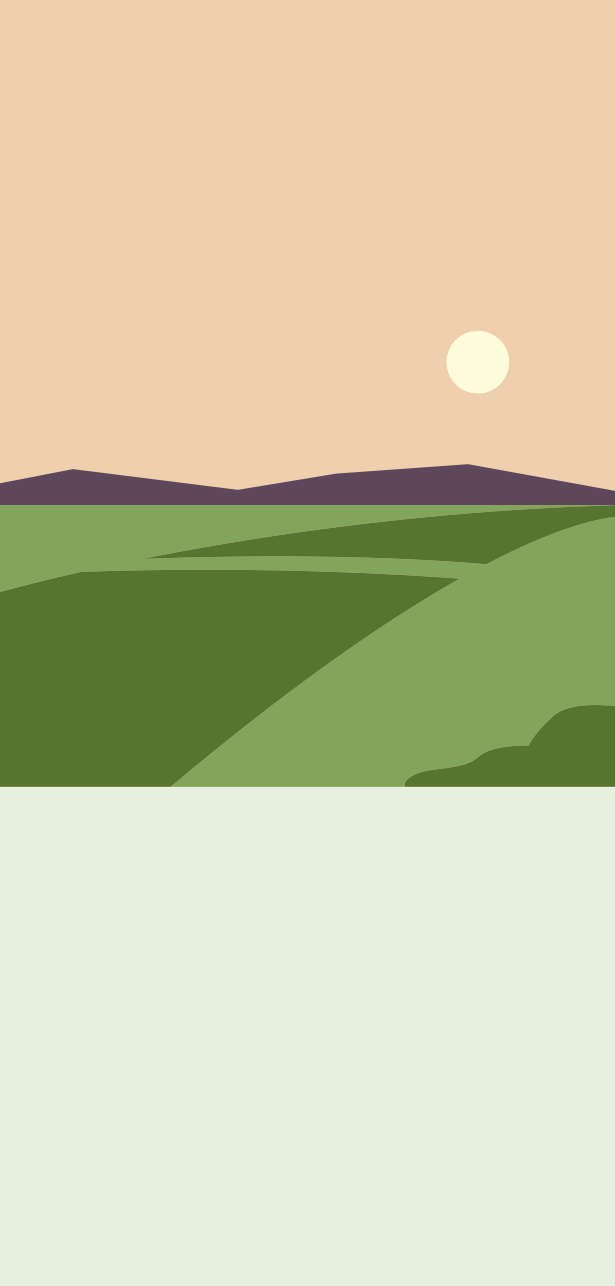
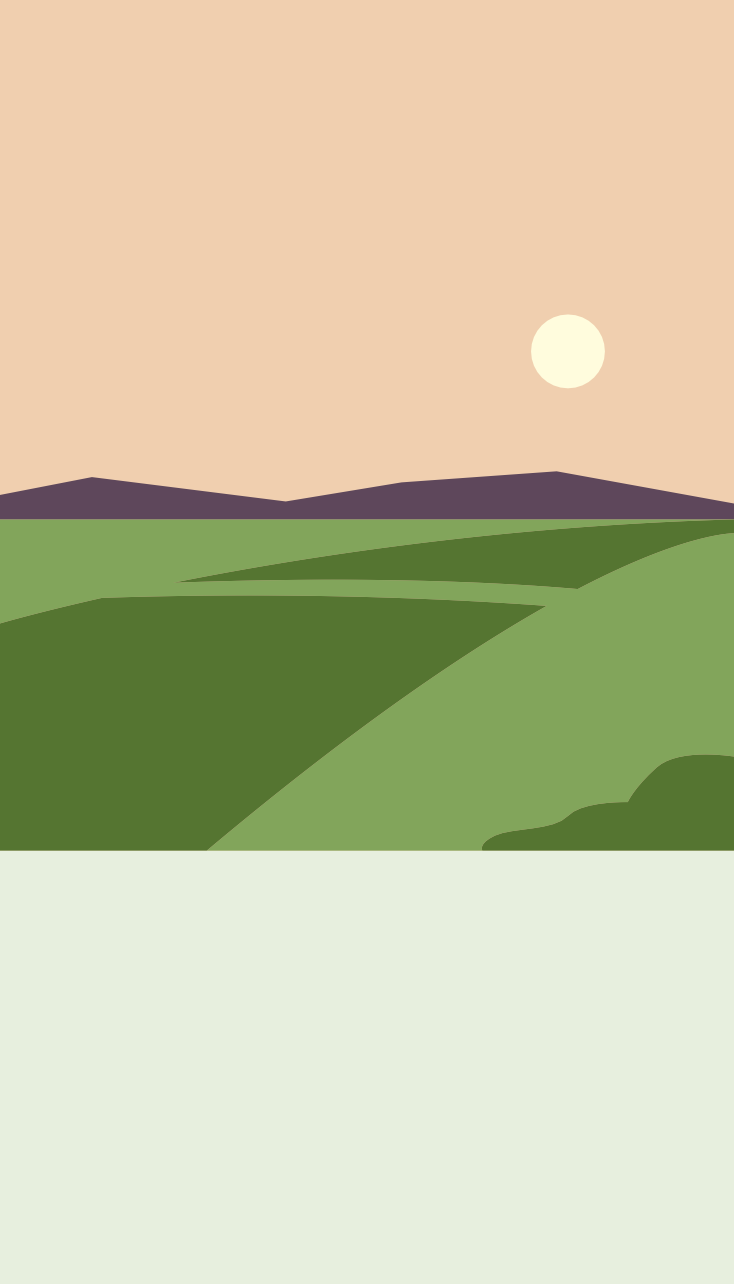
nearly last functionality changes

Changed region(s): [[0.0, 0.3427, 1.0, 0.6854], [0.7106, 0.2492, 0.8341, 0.3115]]

diff --git a/src/components/forecast/forecast.js b/src/components/forecast/forecast.js
@@ -1,0 +1,31 @@
+import './forecast.css';
+
+const DAYS_OF_WEEK = ['Monday', 'Tuesday', 'Wednesday', 'Thursday', 'Friday', 'Saturday', 'Sunday'];
+
+const Forecast = ({ data }) => {
+
+    const dayOfWeek = new Date().getDay();
+    const days_forecast = DAYS_OF_WEEK.slice(dayOfWeek, DAYS_OF_WEEK.length).concat(DAYS_OF_WEEK.slice(0, dayOfWeek));
+
+    console.log(days_forecast);
+
+    return (
+        <>
+            <div className="title">forecast for the upcoming week</div>
+            <div className="forecast-items">
+                {data.list.splice(0, 7).map((item, id) => (
+                    <div key={id}>
+                        <div className="daily-item">
+                            {/* <img alt="weather" className="icon-small" src={`icons/${item.weather[0].icon}.png`}></img> */}
+                            <label className="day">{days_forecast[id]}</label>
+                                <p className="desc">{item.weather[0].description}</p>
+                                <p className="temp">{Math.round(item.main.temp)}°C</p>
+                        </div>
+                    </div>
+                ))}
+            </div>
+        </>
+    );
+}
+
+export default Forecast;

diff --git a/src/components/current-weather/current-weather.js b/src/components/current-weather/current-weather.js
@@ -4,14 +4,14 @@ const CurrentWeather = ({data}) => {
     return (
         <>
         <div className="sun-times">
-            <div className="rise">sunrise<p>{data.dt}</p></div>
-            <div className="set">sunset<p>{data.sys.sunset}</p></div>
+            <div className="rise">sunrise<p>{new Date(data.sys.sunrise*1000).getHours()}:{new Date(data.sys.sunrise*1000).getMinutes()}</p></div>
+            <div className="set">sunset<p>{new Date(data.sys.sunset*1000).getHours()}:{new Date(data.sys.sunrise*1000).getMinutes()}</p></div>
         </div>
         <div className="weather">
             <div className="top">
                 <div>
                     <p className="city">{data.city}</p>
-                    <p className="weather-desc">  {data.weather[0].description}</p>
+                    <p className="weather-desc">{data.weather[0].description}</p>
                 </div>
                 <img alt="weather" className="weather-icon" src="../../../icons/clouds-2-256.png"></img> 
             </div>

diff --git a/src/App.css b/src/App.css
@@ -1,8 +1,9 @@
 .container {
+  position: relative;
   width: 414px;
 	height: 736px;
   background-image: url(../background.png);
-  background-size: contain;
+  background-size: cover;
   margin: 20px auto;
   font-family: "Roboto", Arial, Helvetica, sans-serif;
   font-weight: bolder;
@@ -15,7 +16,6 @@
 
 .header {
   font-family: "Roboto", Arial, Helvetica, sans-serif;
-  color: rgb(94, 114, 100);
   font-weight: bolder;
   text-align: center;
   margin-top: 25px;
@@ -28,13 +28,22 @@
 
 .searchBar {
   color: rgb(144, 171, 130);
-  background-color: rgb(179, 207, 165);
-  text-align:left;
-  fill: rgb(161, 121, 102);
+  text-align: left;
+  border: 2px solid rgb(222, 152, 95);
+  border-radius: 6px;
 }
 
 .rise,
 .set {
   font-size: medium;
   padding-top: 5px;
+}
+
+.footer {
+  position: absolute;
+  bottom: 0;
+  display: flex;
+  text-align: center;
+  justify-content: space-between;
+  margin-bottom: 30px;
 }

diff --git a/src/App.js b/src/App.js
@@ -3,6 +3,7 @@ import Search from './components/search/search';
 import CurrentWeather from './components/current-weather/current-weather';
 import { WEATHER_API_URL, WEATHER_API_KEY } from './api';
 import { useState } from 'react';
+import Forecast from './components/forecast/forecast';
 
 function App() {
 
@@ -37,12 +38,12 @@ function App() {
       <div className="image-section">
         <Search className="searchbar" onSearchChange={handleOnSearchChange}/>
         {currentWeather && <CurrentWeather data={currentWeather}/>} 
+        {forecast && <Forecast data={forecast}/>}
       </div>
       <div className="footer">
-        <footer>This is the footer section</footer>
+        <footer>crops_icon home_icon profile_icon</footer>
       </div>
     </div>
   );
 }
-
 export default App;

diff --git a/src/components/forecast/forecast.css b/src/components/forecast/forecast.css
@@ -1,0 +1,47 @@
+.daily-item {
+    display: inline-block;
+    max-width: 414px;
+    min-height: 30px;
+    /*border: 2px solid magenta; */
+    margin: 2px;
+    align-items: baseline;
+    padding: 2px;
+
+    border-radius: 6px;
+    background-color: rgb(54, 97, 54);
+}
+
+.day {
+    font-size: larger;
+    color: whitesmoke;
+}
+
+.forecast-items {
+    display: flex;
+    justify-content: space-between;
+    margin: 0px;
+    align-items: center;
+    position: absolute;
+    left:0;
+}
+
+.day {
+    font-size: small;
+}
+
+.title {
+    margin-top: 60px;
+    color: rgb(69, 56, 81);
+}
+
+.temp {
+    font-size: medium;
+    color: rgb(88, 181, 88);
+    display: inline;
+}
+
+.desc {
+    font-size: small;
+    font-weight: 100;
+    color: whitesmoke;
+}

diff --git a/src/components/current-weather/current-weather.css b/src/components/current-weather/current-weather.css
@@ -4,7 +4,7 @@
     border: 3px solid transparent; 
     /* box-shadow: 10px -2px 20px 2px rgb(0 0 0 /30%); */
     color: rgb(222, 152, 95);
-    margin: -5px auto 0 auto;
+    margin: -20px auto 0 auto;
     padding: 0px 20px 20px 20px;
 }
 

diff --git a/src/components/search/search.js b/src/components/search/search.js
@@ -30,6 +30,7 @@ const Search = ({ onSearchChange }) => {
         onSearchChange(searchData);
     }
 
+
     return (
         <AsyncPaginate
             className="searchBar"
